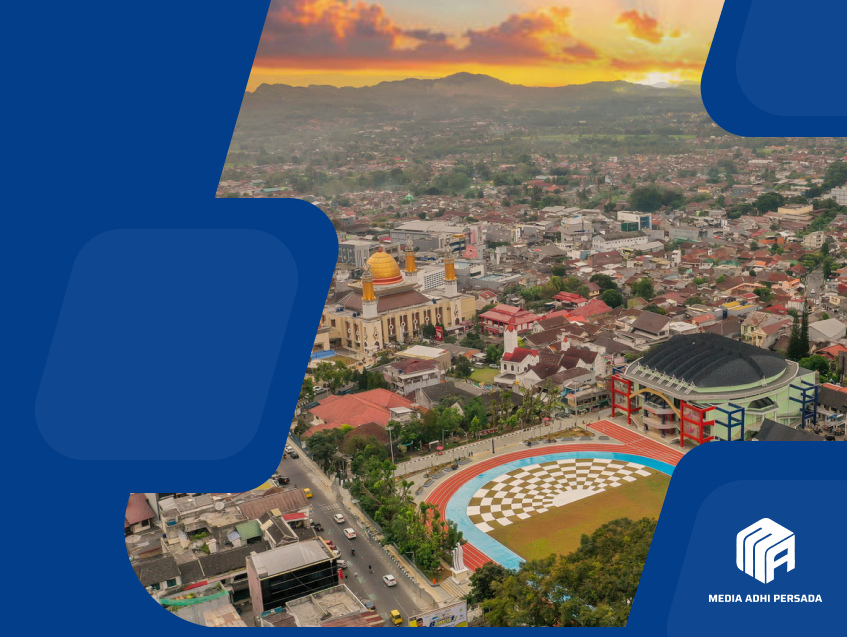
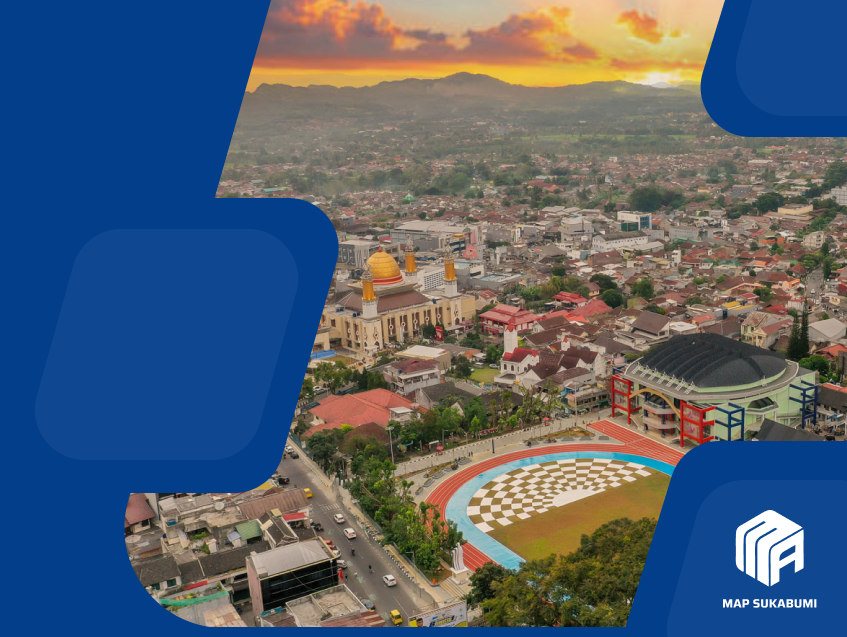
18

Changed region(s): [[0.8288, 0.8053, 0.9823, 0.9545]]

diff --git a/resources/views/layouts/header.blade.php b/resources/views/layouts/header.blade.php
@@ -5,7 +5,7 @@
 </div>
 <nav class="navbar navbar-expand-lg bg-white shadow-sm sticky-top">
   <div class="container">
-    <a class="navbar-brand" href="{{ route('home') }}"><img src="{{ asset('img/map.png') }}" width="200" alt=""></a>
+    <a class="navbar-brand" href="{{ route('home') }}"><img src="{{ asset('img/mapp.png') }}" width="200" alt=""></a>
     <button class="navbar-toggler" type="button" data-bs-toggle="collapse" data-bs-target="#navbarSupportedContent" aria-controls="navbarSupportedContent" aria-expanded="false" aria-label="Toggle navigation">
       <!-- <span class="navbar-toggler-icon"></span> -->
       <i class="bi-list h3"></i>

diff --git a/resources/views/layouts/footer.blade.php b/resources/views/layouts/footer.blade.php
@@ -2,7 +2,7 @@
     <div class="container">
     <div class="px-5 px-md-0">
       <div class="text-center text-md-start">
-        <img src="{{ asset('img/map-white.png') }}" width="200" alt="">
+        <img src="{{ asset('img/mapp-white.png') }}" width="200" alt="">
       </div>
         <div class="row my-3">
             <div class="col-md-4 mb-4 mb-md-0">

diff --git a/database/seeders/UsersTableSeeder.php b/database/seeders/UsersTableSeeder.php
@@ -18,7 +18,7 @@ class UsersTableSeeder extends Seeder
     {
         DB::table('users')->insert([
             'name' => 'media adhi persada',
-            'email' => 'mediaapersada@gmail.com',
+            'email' => 'info@mapkreatif.com',
             'password' => Hash::make('media123'),
         ]);
     }
